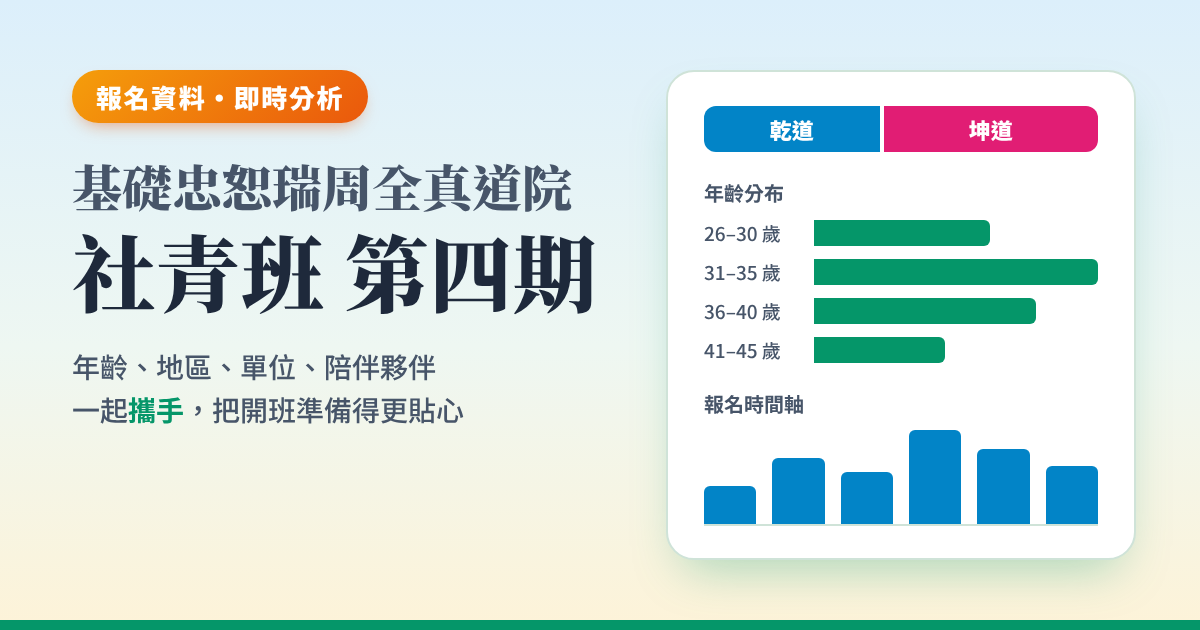
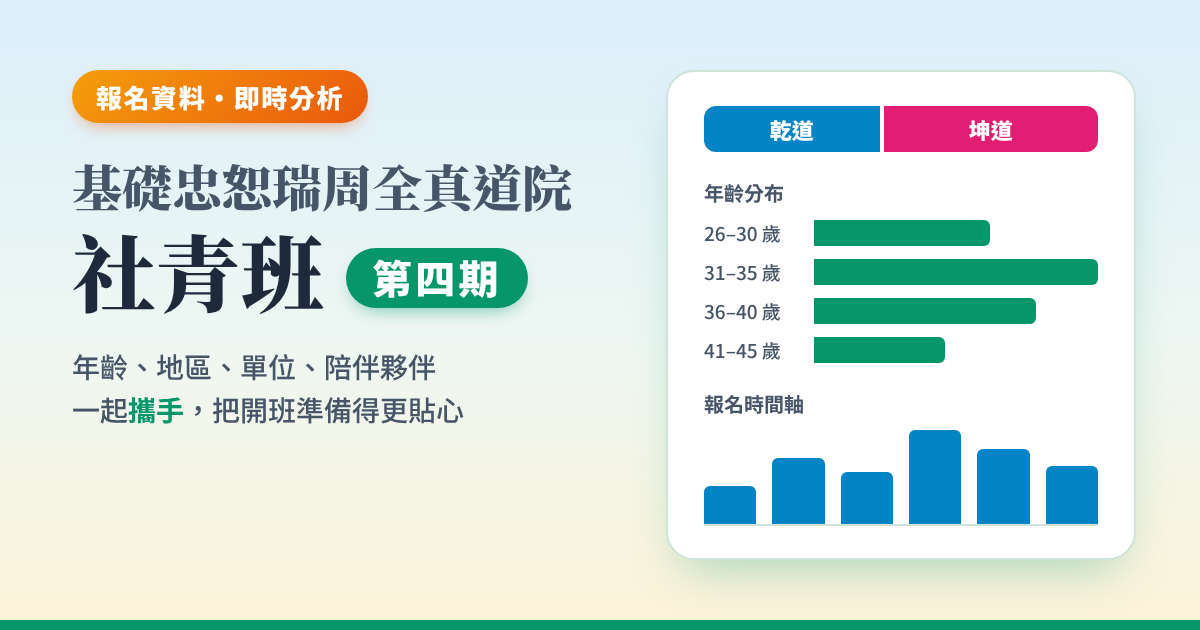
報名分析頁：第四期改成綠色膠囊，分享連結改為 ?v=2
預覽圖與網頁標題的「第四期」縮小並包進膠囊；預覽圖網址加上 ?v=2，讓 LINE 重新抓取。

Claude-Session: https://claude.ai/code/session_01SP69a6GoZ6GAuBrkTPxNmk

Changed region(s): [[0.2775, 0.3619, 0.4933, 0.5127]]

diff --git a/signup/index.html b/signup/index.html
@@ -12,8 +12,8 @@
 <meta property="og:site_name" content="2027 全真社青 Life Design 探索地圖">
 <meta property="og:title" content="社青班第四期報名分析｜基礎忠恕瑞周全真道院">
 <meta property="og:description" content="年齡、地區、單位、陪伴夥伴即時分析，一起攜手把開班準備得更貼心。">
-<meta property="og:url" content="https://steven4dev.github.io/yiguandao-2027-course/signup/?v=1">
-<meta property="og:image" content="https://steven4dev.github.io/yiguandao-2027-course/signup/og-signup.png">
+<meta property="og:url" content="https://steven4dev.github.io/yiguandao-2027-course/signup/?v=2">
+<meta property="og:image" content="https://steven4dev.github.io/yiguandao-2027-course/signup/og-signup.png?v=2">
 <meta property="og:image:width" content="1200">
 <meta property="og:image:height" content="630">
 <meta property="og:image:alt" content="社青班第四期報名分析：乾坤比例、年齡分布與報名時間軸">
@@ -80,6 +80,22 @@
     font-size: clamp(1.6rem, 4.5vw, 2.4rem);
     line-height: 1.35;
     text-wrap: balance;
+  }
+  .hero .term {
+    display: inline-block;
+    vertical-align: middle;
+    margin-left: 12px;
+    position: relative;
+    top: -3px;
+    font-family: var(--sans);
+    font-size: 0.5em;
+    font-weight: 900;
+    color: #fff;
+    background: var(--accent);
+    padding: 2px 16px 3px;
+    border-radius: 999px;
+    letter-spacing: 0.08em;
+    box-shadow: 0 6px 14px -6px rgba(5, 150, 105, 0.6);
   }
   .hero p {
     color: var(--text-secondary);
@@ -355,7 +371,7 @@
 <header class="hero">
   <div class="wrap">
     <span class="eyebrow">報名資料・即時分析</span>
-    <h1>基礎忠恕瑞周全真道院<br>社青班 第四期</h1>
+    <h1>基礎忠恕瑞周全真道院<br>社青班<span class="term">第四期</span></h1>
     <p>感恩每一位報名的新朋友，也感恩一路邀約陪伴的前賢學長。這份分析整理大家的年齡、地區與單位，讓我們一起攜手，把第四期的課程與陪伴準備得更貼心。</p>
     <button type="button" class="live" id="live" data-state="loading" title="點一下立即重新讀取">
       <span class="dot" aria-hidden="true">…</span><span id="liveText">正在連線最新資料…</span>

diff --git a/README.md b/README.md
@@ -21,7 +21,7 @@ https://steven4dev.github.io/yiguandao-2027-course/
 
 ## 第四期報名分析（`signup/`）
 
-https://steven4dev.github.io/yiguandao-2027-course/signup/?v=1（分享用連結，LINE 會顯示預覽圖 `signup/og-signup.png`）
+https://steven4dev.github.io/yiguandao-2027-course/signup/?v=2（分享用連結，LINE 會顯示預覽圖 `signup/og-signup.png`）
 
 直接讀取報名表的 Google 表單回覆，開啟時讀一次，之後每 5 分鐘、或切回分頁時自動更新；連不上時改顯示 `signup/data.json` 的備份。
 
